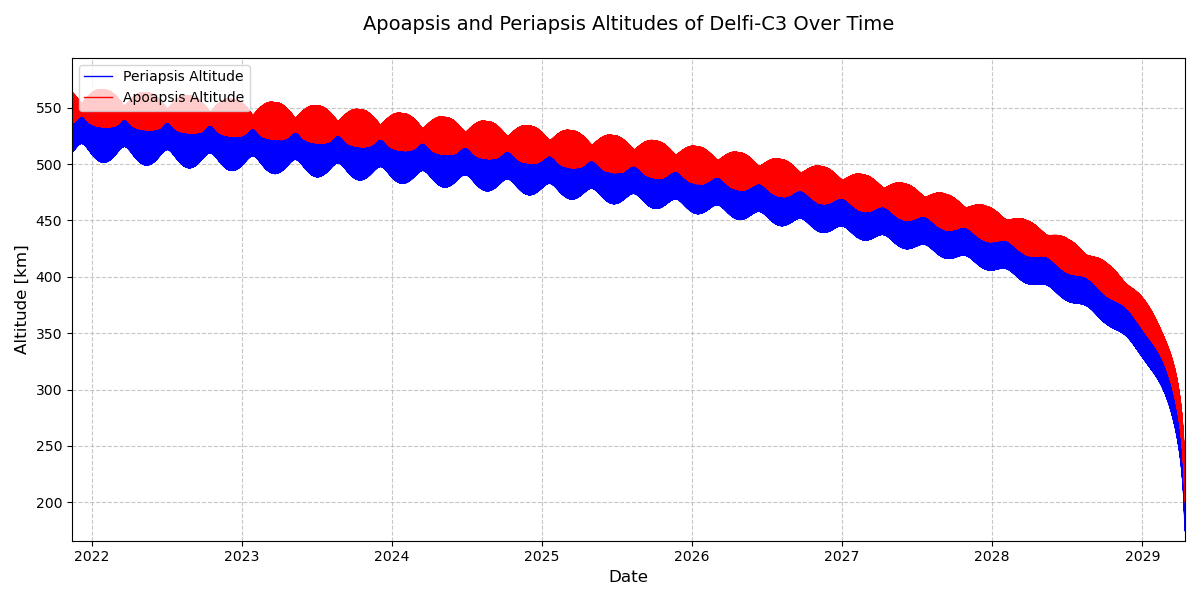
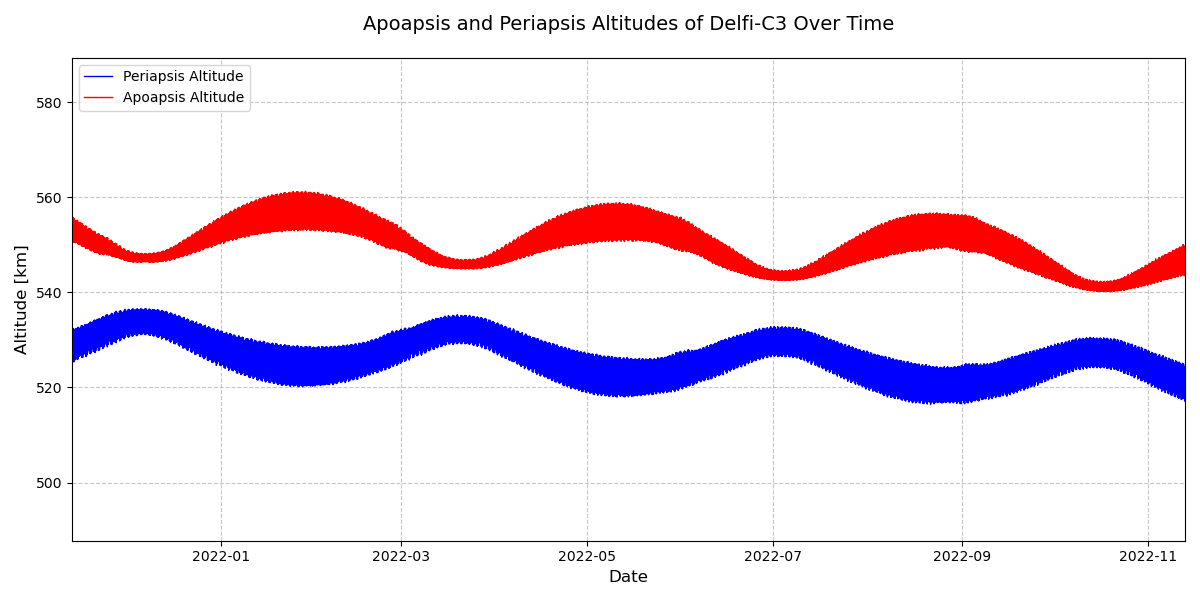
Changes in main

diff --git a/tudat_main.py b/tudat_main.py
@@ -47,10 +47,8 @@ def density_f(h, lon, lat, time):
     start_date = np.datetime64("2000-01-01T00:00")
     timedate = start_date + np.timedelta64(int(time), 's')
     # Use h in kilometers (pymsis expects km)
-    data = pymsis.calculate(timedate, lon, lat, h, geomagnetic_activity=-1, version=2.1)
+    data = pymsis.calculate(timedate, lon, lat, h/1000, geomagnetic_activity=-1, version=2.1)
     density = data[0, pymsis.Variable.MASS_DENSITY]
-    # Optional: Log for debugging (uncomment to verify density)
-    # print(f"Altitude: {h} km, Lon: {lon} deg, Lat: {lat} deg, Time: {timedate}, Density: {density} kg/m^3")
     return density
 
 body_settings.get("Earth").atmosphere_settings = environment_setup.atmosphere.custom_four_dimensional_constant_temperature(
@@ -58,6 +56,7 @@ body_settings.get("Earth").atmosphere_settings = environment_setup.atmosphere.cu
     const_temp,
     8.314 / 0.016,  # Scale height in km (typical for thermosphere)
     1.667)  # R/M for atomic oxygen (~519 J/(kg·K))
+
 # Create empty body settings for the satellite
 body_settings.add_empty_settings(satname)
 
@@ -123,8 +122,7 @@ print("2. Specify a custom end date (YYYY-MM-DD), from 13 November 2021")
 choice = input("Enter your choice (1 or 2): ")
 
 # Set simulation start epoch
-# print("Start date: {0}-{1}-{2}".format(year, month, day))
-start_date_str = input("Enter start date (YYYY-MM-DD): ")
+start_date_str = '2021-11-13'
 start_date = datetime.strptime(start_date_str, "%Y-%m-%d")
 simulation_start_epoch = DateTime(start_date.year, start_date.month, start_date.day).epoch()
 
@@ -159,7 +157,7 @@ dependent_variables_to_save = [
     propagation_setup.dependent_variable.apoapsis_altitude(satname, "Earth")
 ]
 
-# Create termination settings based on altitude (terminate when altitude <= 120 km)
+# Create termination settings based on altitude (terminate when altitude <= 200 km)
 altitude_variable = propagation_setup.dependent_variable.altitude(satname, "Earth")
 altitude_termination = propagation_setup.propagator.dependent_variable_termination(
     dependent_variable_settings=altitude_variable,
@@ -227,8 +225,9 @@ states_array = result2array(states)
 dep_vars = dynamics_simulator.propagation_results.dependent_variable_history
 dep_vars_array = result2array(dep_vars)
 
-# Extract data
-time_hours = (dep_vars_array[:, 0] - dep_vars_array[0, 0]) / 3600
+# Extract data (non-resampled, kept for reference)
+time_seconds = dep_vars_array[:, 0]
+time_hours = (time_seconds - time_seconds[0]) / 3600  # Relative time in hours
 periapsis = dep_vars_array[:, 16] / 1000  # Convert to km
 apoapsis = dep_vars_array[:, 17] / 1000   # Convert to km
 acceleration_norm_pm_sun = dep_vars_array[:, 10]
@@ -237,82 +236,92 @@ acceleration_norm_sh_earth = dep_vars_array[:, 12]
 acceleration_norm_aero_earth = dep_vars_array[:, 13]
 acceleration_norm_rp_sun = dep_vars_array[:, 14]
 
-# Smooth the data using a moving average (excluding aerodynamic acceleration)
-def moving_average(data, window_size):
-    return np.convolve(data, np.ones(window_size)/window_size, mode='valid')
+# Create a DataFrame
+data = pd.DataFrame({
+    'periapsis': periapsis,
+    'apoapsis': apoapsis,
+    'acc_pm_sun': acceleration_norm_pm_sun,
+    'acc_pm_moon': acceleration_norm_pm_moon,
+    'acc_sh_earth': acceleration_norm_sh_earth,
+    'acc_aero_earth': acceleration_norm_aero_earth,
+    'acc_rp_sun': acceleration_norm_rp_sun
+})
 
-window_size = 10  # Increased for smoother lines
-periapsis_smooth = moving_average(periapsis, window_size)
-apoapsis_smooth = moving_average(apoapsis, window_size)
-time_smooth = moving_average(time_hours, window_size)
+# Convert time_seconds to datetime index
+time_datetime = start_date + pd.to_timedelta(time_seconds - time_seconds[0], unit='s')
+data.index = time_datetime
 
-# Calculate the corresponding time indices for the smoothed data
-smoothed_length = len(periapsis_smooth)  # Length of smoothed arrays
-start_idx = (window_size - 1) // 2  # Center the smoothing window
-smooth_indices = np.arange(start_idx, start_idx + smoothed_length)
+# Find the first midnight (00:00) after start_date
+first_midnight = pd.Timestamp(start_date).ceil('D')
 
-# Extract the corresponding time seconds for the smoothed data
-time_seconds = dep_vars_array[:, 0] - dep_vars_array[0, 0]  # Time in seconds from start
-time_seconds_smooth = time_seconds[smooth_indices]
+# Create a custom time index: from start_date to first_midnight, then every 4 hours
+# First, include data up to first_midnight
+initial_data = data.loc[:first_midnight].resample('h').mean()  # Hourly until midnight
+# Then, resample from first_midnight onward every 4 hours
+post_midnight_data = data.loc[first_midnight:].resample('1h', origin=first_midnight).mean()
 
-# Convert smoothed time to dates
-start_date = datetime(start_date.year, start_date.month, start_date.day)  # Simulation start date
-dates_smooth = np.array([timedelta(seconds=time) + start_date for time in time_seconds_smooth])
+# Combine the two parts
+resampled_data = pd.concat([initial_data, post_midnight_data])
+resampled_data = resampled_data.loc[~resampled_data.index.duplicated(keep='first')]  # Remove duplicates
+resampled_dates = resampled_data.index
 
-# Convert smoothed time to years
-time_years_smooth = time_seconds_smooth / (365.25 * 24 * 3600) + year 
+# Calculate resampled time in hours (relative to start_date) for CSV
+resampled_time_seconds = (resampled_dates - start_date).total_seconds()
+resampled_time_hours = resampled_time_seconds / 3600
 
-# Slice original data to match smoothed data length for plotting
-acceleration_norm_aero_earth_sliced = acceleration_norm_aero_earth[smooth_indices]  # Use unsmoothed data
-
-# Calculate final simulation date
+# Calculate final simulation date (from original data, for reference)
 final_time_seconds = time_seconds[-1]
 final_date = start_date + timedelta(seconds=final_time_seconds)
 
-# Create figure with improved styling for altitude plot
+# Create figure for altitude plot (using resampled data)
 fig, ax1 = plt.subplots(figsize=(12, 6))
 
-# Plot smoothed periapsis and apoapsis with thin, smooth lines
-ax1.plot(dates_smooth, periapsis, 'b-', label='Periapsis Altitude', linewidth=1)
-ax1.plot(dates_smooth, apoapsis, 'r-', label='Apoapsis Altitude', linewidth=1)
+# Plot resampled periapsis and apoapsis
+ax1.plot(resampled_dates, resampled_data['periapsis'], 'b-', label='Periapsis Altitude', linewidth=1)
+ax1.plot(resampled_dates, resampled_data['apoapsis'], 'r-', label='Apoapsis Altitude', linewidth=1)
 
 ax1.set_xlabel('Date', fontsize=12)
 ax1.set_ylabel('Altitude [km]', fontsize=12)
 ax1.set_title(f'Apoapsis and Periapsis Altitudes of {satname} Over Time', fontsize=14, pad=20)
 ax1.grid(True, linestyle='--', alpha=0.7)
 ax1.legend(loc='upper left', fontsize=10)
-ax1.set_xlim([min(dates_smooth), max(dates_smooth)])
+ax1.set_xlim([min(resampled_dates), max(resampled_dates)])
 
 # Adjust y-axis limits for better visibility
-ax1.set_ylim([min(min(periapsis_smooth), min(apoapsis_smooth)) * 0.95, max(max(periapsis_smooth), max(apoapsis_smooth)) * 1.05])
+ax1.set_ylim([min(resampled_data['periapsis'].min(), resampled_data['apoapsis'].min()) * 0.95,
+              max(resampled_data['periapsis'].max(), resampled_data['apoapsis'].max()) * 1.05])
 
 # Add some styling
 plt.tight_layout()
 plt.savefig('results/C3/C3_altitude.png')
 
-# Create figure for aerodynamic acceleration (unsmoothed) with thin, smooth line
-plt.figure(figsize=(9, 5))
-plt.plot(dates_smooth, acceleration_norm_aero_earth_sliced, 'g-', label='Aerodynamic Earth Acceleration', linewidth=1)
-plt.xlim([min(dates_smooth), max(dates_smooth)])
-plt.xlabel('Date', fontsize=12)
-plt.ylabel('Acceleration Norm [m/s$^2$]', fontsize=12)
-plt.title(f'Aerodynamic Acceleration of {satname} Over Time', fontsize=14, pad=20)
-plt.legend(loc='upper right', fontsize=10)
-plt.yscale('log')
-plt.grid(True, linestyle='--', alpha=0.7)
+# Create figure for aerodynamic acceleration (using resampled data)
+fig, ax2 = plt.subplots(figsize=(9, 5))
+ax2.plot(resampled_dates, resampled_data['acc_aero_earth'], 'g-', label='Aerodynamic Earth Acceleration', linewidth=1)
+ax2.set_xlim([min(resampled_dates), max(resampled_dates)])
+ax2.set_xlabel('Date', fontsize=12)
+ax2.set_ylabel('Acceleration Norm [m/s$^2$]', fontsize=12)
+ax2.set_title(f'Aerodynamic Acceleration of {satname} Over Time', fontsize=14, pad=20)
+ax2.legend(loc='upper right', fontsize=10)
+ax2.set_yscale('log')
+ax2.grid(True, linestyle='--', alpha=0.7)
 plt.tight_layout()
 plt.savefig('results/C3/C3_drag_acceleration.png')
 
 plt.show()
 
-# Store all extracted variables in an np array (using original full-length data)
-data = np.vstack([dates_smooth, apoapsis, periapsis, acceleration_norm_aero_earth])
-data = np.transpose(data)
-headr = "Time (Hours), Apoapsis, Periapsis, Acceleration Norm Aero Earth"
+# Store resampled data in an np array
+data_resampled = np.vstack([
+    resampled_time_hours,  # Time in hours
+    resampled_data['apoapsis'],
+    resampled_data['periapsis'],
+    resampled_data['acc_aero_earth']
+]).T  # Transpose to match [time, apoapsis, periapsis, acc_aero_earth]
 
-# Store the data array in a csv with header
-print("Writing to file: {0}.csv...".format(satname))
-np.savetxt("results/C3/"+satname + ".csv", data, header=headr, delimiter=',')
+# Store the resampled data array in a CSV with header
+headr = "Time (Hours), Apoapsis, Periapsis, Acceleration Norm Aero Earth"
+print(f"Writing to file: {satname}.csv...")
+np.savetxt(f"results/C3/{satname}.csv", data_resampled, header=headr, delimiter=',', fmt='%.6f')
 print("Done!")
 print(f"Final simulation time: {time_hours[-1]:.2f} hours")
 print(f"Final simulation date: {final_date.strftime('%Y-%m-%d')}")
